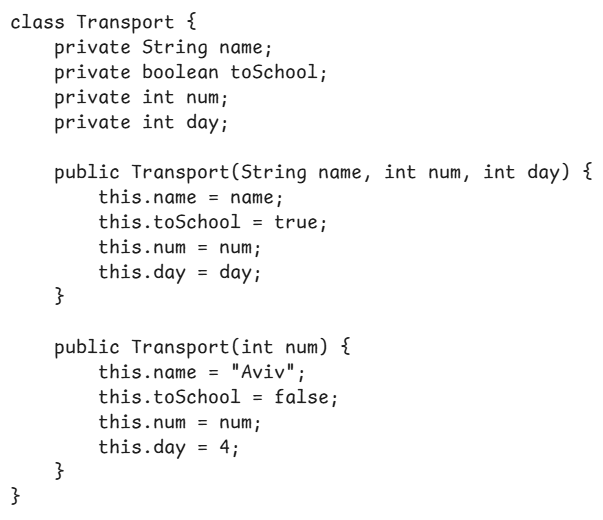
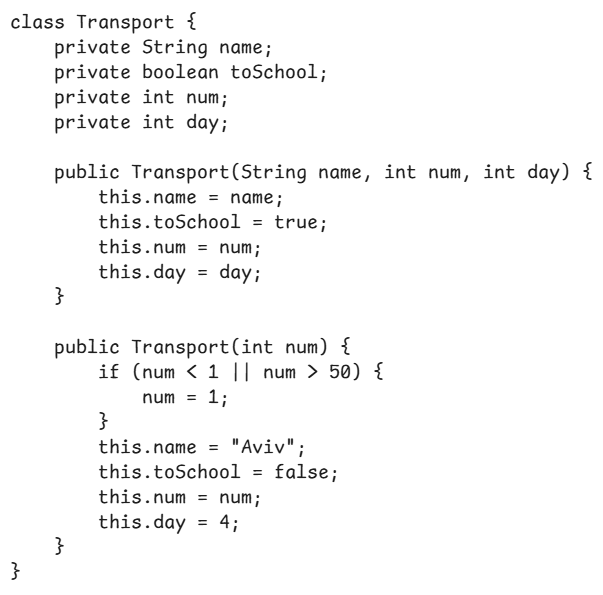
0.29.1

diff --git a/bagruts/2023-371.html b/bagruts/2023-371.html
@@ -1,0 +1,71 @@
+<meta charset="utf-8" />
+<style> hint, drill {display: none;} </style>
+<script src="../md-components.js"></script>
+
+<import-hints from="./bagrut-hints.html"></import-hints>
+
+<!---------------------------------------------------------->
+
+<code-drills 
+    heading="2023-371"
+    log-level="W"
+>
+</code-drills>
+
+<template>
+
+<!---------------------------------------------------------->
+
+<drill lang="java" id="2023-371" as-html>
+<a href="./pdf/2023-371.pdf" target="_blank">
+    <img src="./img/2023-371.png" width=400>
+</a>
+<a href="./pdf/2023-371.pdf" target="_blank" class="link link-primary ml-6">
+    בגרות 2025
+</a>
+<!--a href="./pdf/2025-371-slides.pdf" target="_blank" class="link link-primary ml-6">
+    שקופיות להדפסה
+</a-->
+</drill>
+
+<!---------------------------------------------------------->
+
+<drill lang="java" id="">
+</drill>
+
+<!---------------------------------------------------------->
+
+<drill lang="java" id="">
+</drill>
+
+<!---------------------------------------------------------->
+
+<drill lang="java" id="">
+</drill>
+
+<!---------------------------------------------------------->
+
+<drill lang="java" id="">
+</drill>
+
+<!---------------------------------------------------------->
+
+<drill lang="java" id="">
+</drill>
+
+<!---------------------------------------------------------->
+
+<drill lang="java" id="">
+</drill>
+
+<!---------------------------------------------------------->
+
+<drill lang="java" id="">
+</drill>
+
+<!---------------------------------------------------------->
+
+<drill lang="java" id="">
+</drill>
+
+</template>

diff --git a/bagruts/2025-371.html b/bagruts/2025-371.html
@@ -168,7 +168,7 @@ public static boolean isNarc(int num) {
 $!html <img src="img/2025-371-q3-b.png">
 public static $void$ theNarc(int n) {
         ^... ~o hr implement
-    for ($int i = 1; i < n; i++$) {
+    for ($int i = 1; i <= n; i++$) {
             ^... ~o hr implement
         if ($isNarc(i)$) {
                 ^... ~o hr implement
@@ -192,8 +192,8 @@ public static $void$ theNarc(int n) {
 <img-areas width=800
     src="./img/2025-371-q4-a-solution.png"
     hide="[
-        [40,30,53,6],[37,36,12,5],[45,40,10,6],[35,46,9,5],[35,50,9,5],
-        [40,64,13,5],[38,68,14,6],[45,73,11,6],[35,79,10,5],[35,83,6,6]
+        [40,26,53,6],[37,31,12,5],[45,35,10,6],[35,39,9,5],[35,44,9,5],
+        [23,60,36,5],[23,65,16,5],[40,56,13,5],[38,72,14,6],[45,77,11,6],[35,81,10,5],[35,86,6,6]
     ]">
 </img-areas>
 </drill>
@@ -251,7 +251,7 @@ moreForward(arr);       // $4, 6$
 
 public static $void$ moreForward(Transport[] arr) {
         ^... ~o hr implement
-    for ($int day = 0; day <= 6; day++$) {
+    for ($int day = 1; day <= 6; day++$) {
             ^... ~o hr implement
         if ($dayReport(arr, day, true)$ > 
                 ^... ~o hr implement

diff --git a/bagruts/2024-371.html b/bagruts/2024-371.html
@@ -459,7 +459,7 @@ public static boolean isCorrect() {
 
 <!---------------------------------------------------------->
 
-<drill lang="java" id="q6-b!" no-wrong-phase>
+<drill lang="java" id="q6-b" no-wrong-phase>
 $!html <img src="img/2024-371-q6-b.png">
 
 print(inBoth(36, 942378));      // $true$
